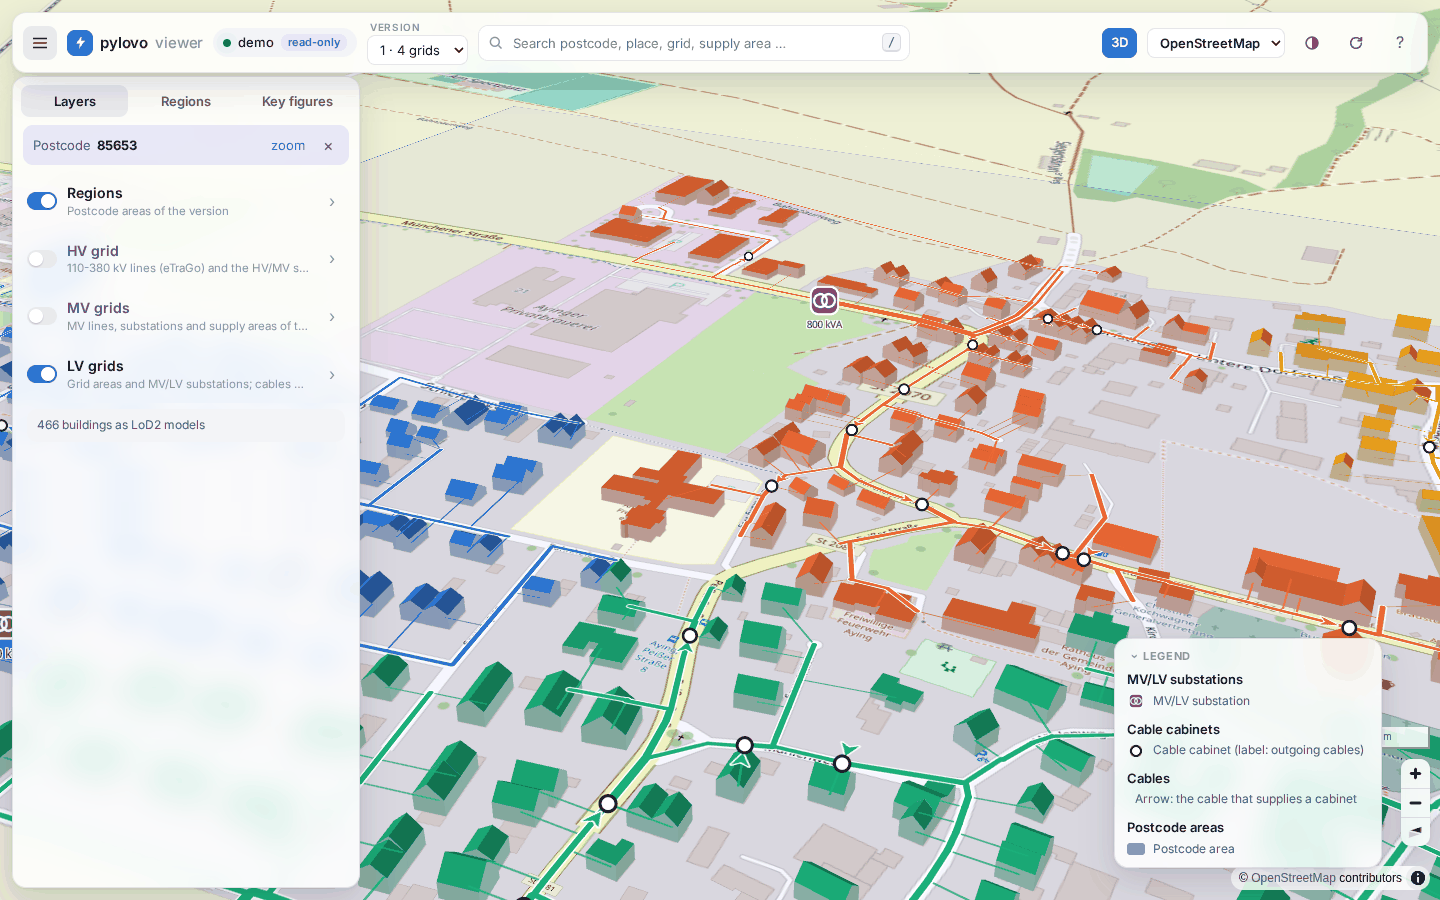
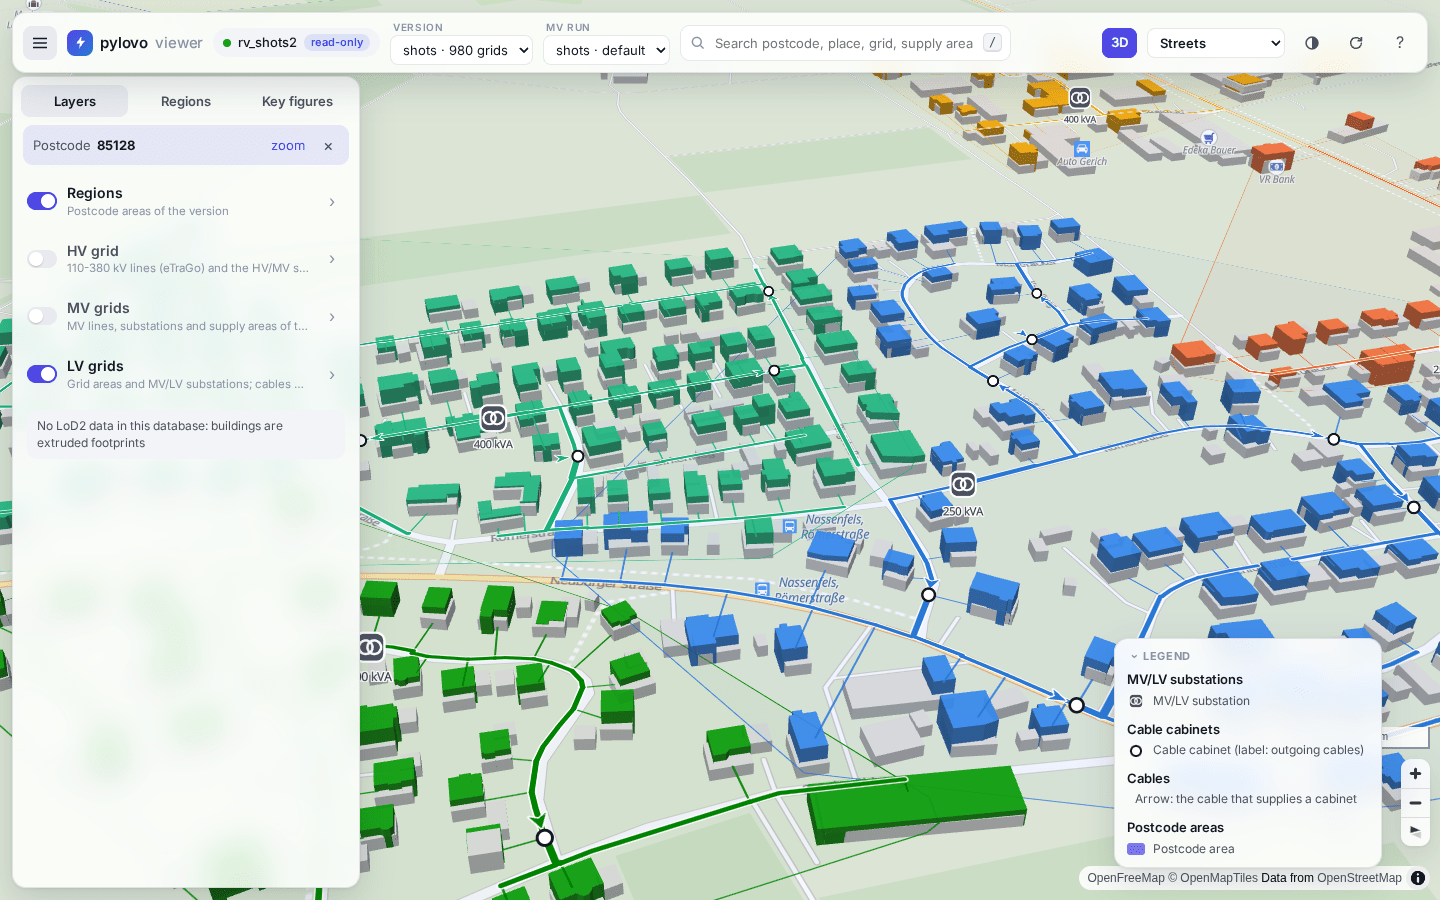
Retake the viewer screenshots with the Streets basemap in a test region outside the validation regions

diff --git a/docs/source/user_guide/viewer.rst b/docs/source/user_guide/viewer.rst
@@ -12,10 +12,11 @@ commands (:doc:`cli`).
    :alt: The map viewer with LV grids coloured by grid and one selected feeder section
    :width: 100%
 
-   LV grids of one postcode in the default view: areas, cables and buildings coloured by grid and
-   the MV/LV substations as transformer symbols. A click on a cable selects its feeder section
-   (yellow), and the inspector shows the section and the cable's database row. MV test region from open data; map data © OpenStreetMap contributors
-   (ODbL).
+   LV grids of one postcode in the default view (3D, Streets basemap): areas, cables and buildings
+   coloured by grid and the MV/LV substations as transformer symbols. A click on a cable selects its
+   feeder section (yellow), and the inspector shows the section and the cable's database row. Test
+   region generated from open data; basemap OpenFreeMap © OpenMapTiles, map data © OpenStreetMap
+   contributors (ODbL).
 
 Start
 -----
@@ -109,11 +110,13 @@ modes, basemap and camera, so a view can be bookmarked or sent. Keys: ``/`` sear
 ``Esc`` close the inspector and then clear the region, ``?`` help.
 
 .. figure:: /images/viewer/viewer-lod2.png
-   :alt: LoD2 buildings of several grids in 3D, coloured by grid
+   :alt: Extruded buildings, cables and cable cabinets of several LV grids in 3D, coloured by grid
    :width: 100%
 
-   3D view with LoD2 buildings coloured by grid. Demo region 85653 (Aying) derived from
-   OpenStreetMap with synthetic LoD2 models.
+   The 3D view tilted further (right-button drag): buildings extruded by their height, cables, cable
+   cabinets and MV/LV substations of several grids, coloured by grid. The test database has no
+   ``citydb``, so the buildings are extruded footprints; with LoD2 data they show roofs and walls.
+   Basemap OpenFreeMap © OpenMapTiles, map data © OpenStreetMap contributors (ODbL).
 
 Layers
 ------
@@ -199,8 +202,9 @@ attribution.
    :alt: MV supply areas, rings and substations of a test region with the eTraGo high-voltage grid
    :width: 100%
 
-   MV supply areas, rings and HV/MV substations of an MV run in a test region, with the eTraGo
-   110, 220 and 380 kV lines. Map data © OpenStreetMap contributors (ODbL), eGon-data eTraGo grid.
+   MV supply areas, rings and HV/MV substations of an MV run in a test region generated from open
+   data, with the eTraGo 110, 220 and 380 kV lines (LV level switched off). Basemap OpenFreeMap
+   © OpenMapTiles, map data © OpenStreetMap contributors (ODbL), eGon-data eTraGo grid.
 
 Data and limits
 ---------------

diff --git a/README.rst b/README.rst
@@ -19,7 +19,8 @@ GIS tables in PostgreSQL/PostGIS.
     :alt: Generated LV grids in pylovo-viewer in 3D, cables and buildings coloured by grid, one feeder section selected
 
     Generated LV grids in pylovo-viewer: cables and 3D buildings coloured by grid, one feeder section
-    selected (MV test region from open data; map data © OpenStreetMap contributors, ODbL).
+    selected (test region from open data; basemap OpenFreeMap © OpenMapTiles, map data
+    © OpenStreetMap contributors, ODbL).
 
 Key features
 ------------

diff --git a/docs/source/index.rst b/docs/source/index.rst
@@ -14,8 +14,8 @@ networks or GIS data.
    :width: 100%
 
    Explore generated grids in the :doc:`user_guide/viewer`: the LV grids of one postcode with cables
-   and 3D buildings coloured by grid and one selected feeder section. MV test region from open
-   data; map data © OpenStreetMap contributors (ODbL).
+   and 3D buildings coloured by grid and one selected feeder section. Test region from open data;
+   basemap OpenFreeMap © OpenMapTiles, map data © OpenStreetMap contributors (ODbL).
 
 .. rubric:: Key features
 
